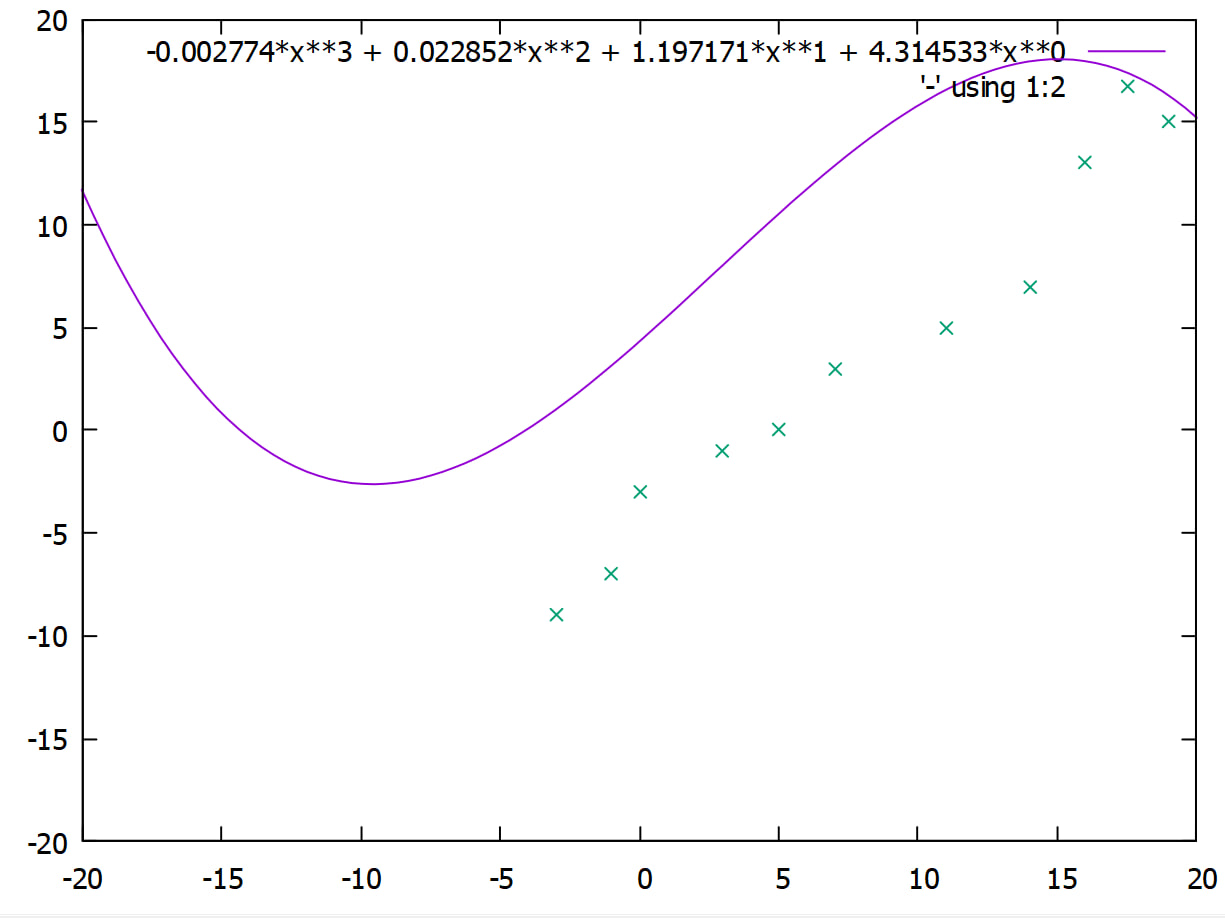
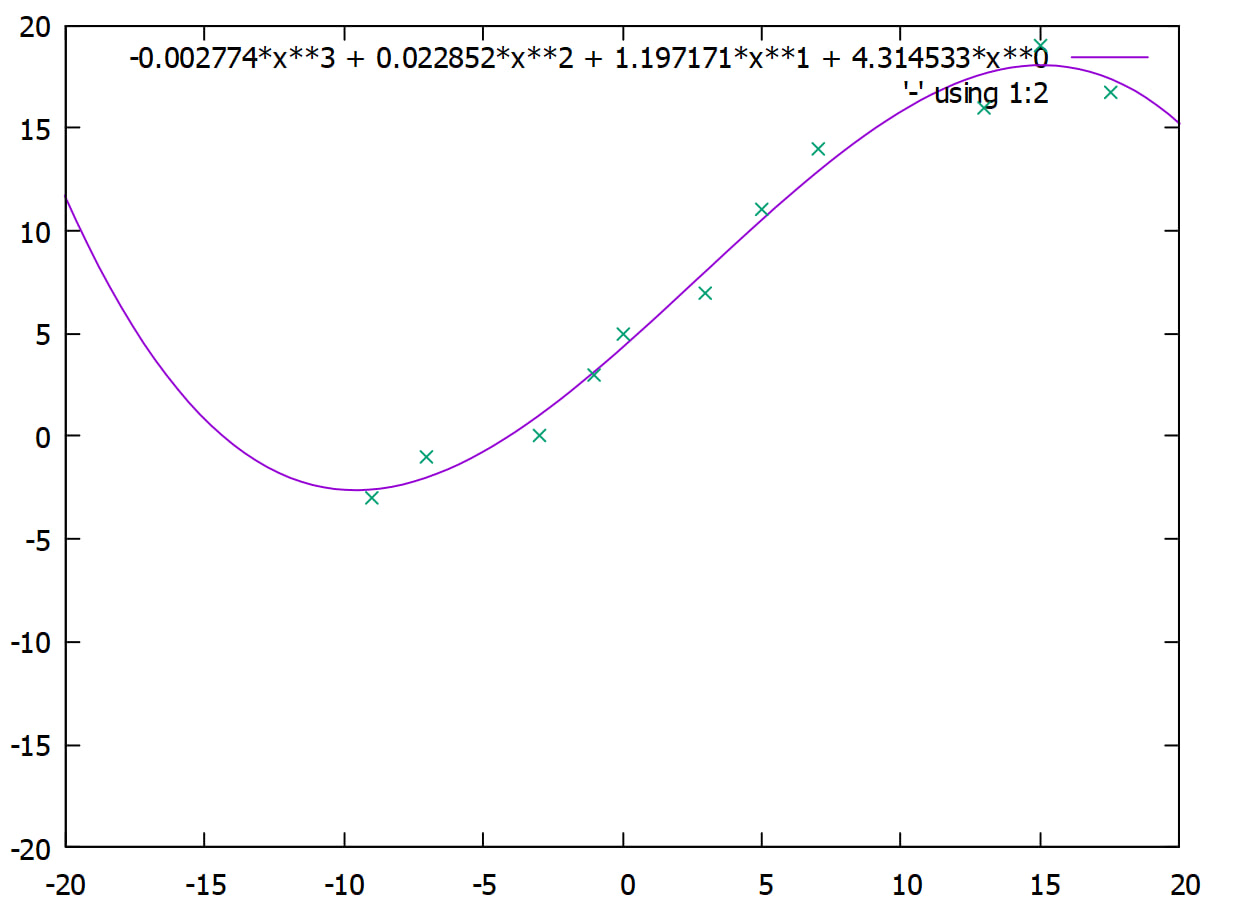
fixed gnuplot graph

diff --git a/main.cpp b/main.cpp
@@ -140,7 +140,7 @@ int main() {
     // Plot the least square approximation
     fprintf(pipe, "plot [-20 : 20] [-20 : 20]  %lf*x**3 + %lf*x**2 + %lf*x**1 + %lf*x**0 , '-' using 1:2 with points\n",  h[3], h[2], h[1], h[0]);
     for (int i = 0; i < m; i++) {
-        fprintf(pipe, "%f\t%f\n", data[i].second, data[i].first);
+        fprintf(pipe, "%f\t%f\n", data[i].first, data[i].second);
     }
     fprintf(pipe, "e\n");
     fflush(pipe);

diff --git a/README.md b/README.md
@@ -2,7 +2,7 @@
 C++ program to compose a least square approximation for a given data set. Itvgenerates an image with GNUPlot.
 
 
-List of points that were tested:
+List of 10 points that were tested:
 ```
 -9 -7 -3 -1 0 3 5 7 13 15
 -3 -1 0 3 5 7 11 14 16 19
